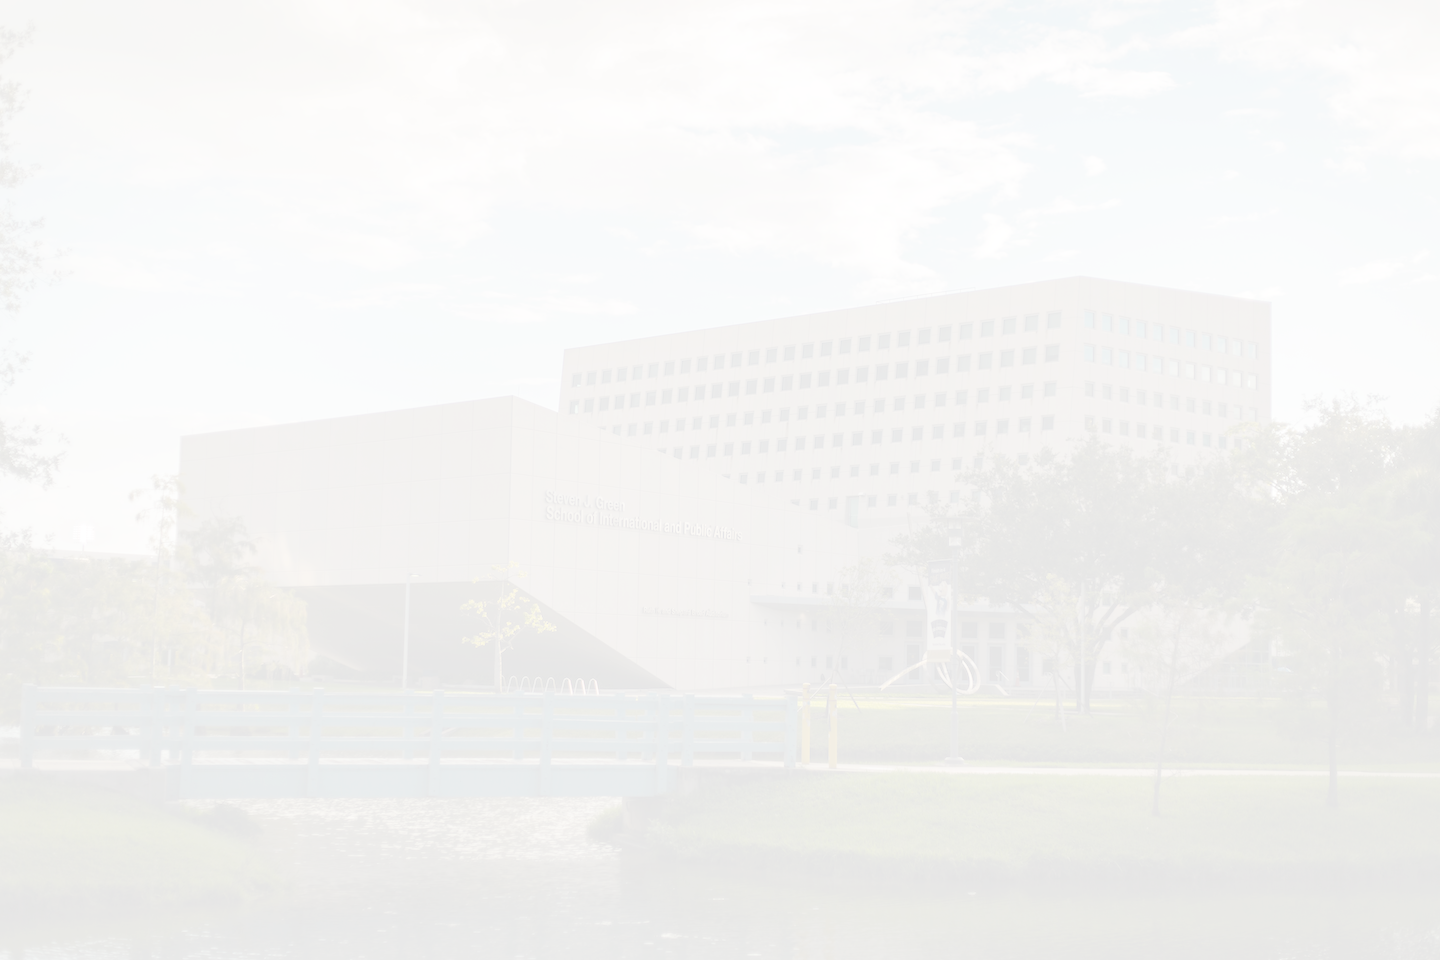
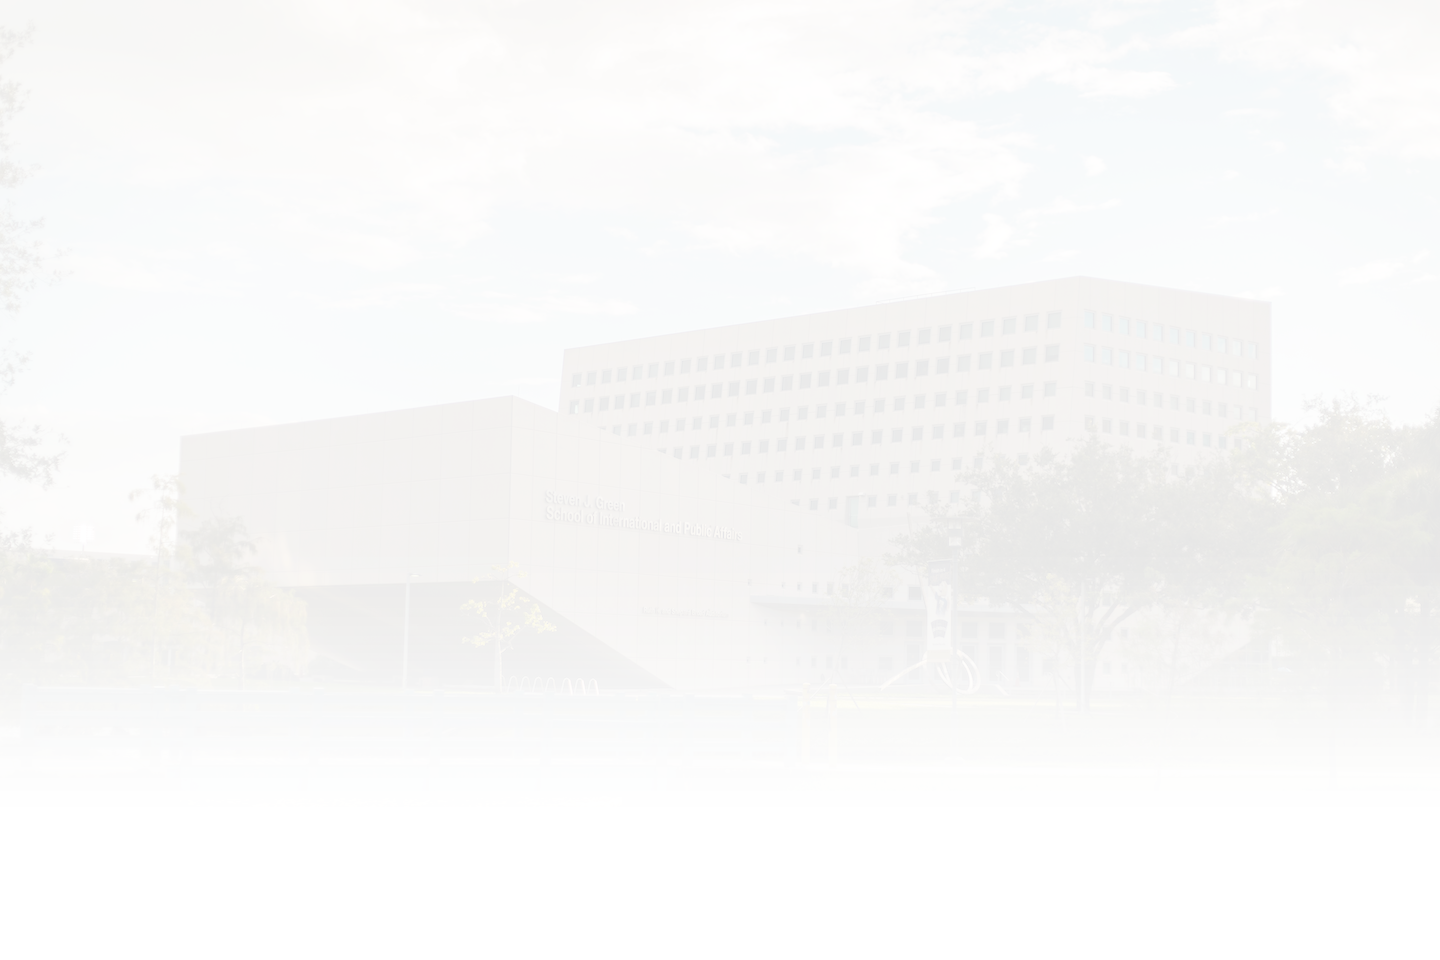
fixed white space on bottom of pages

Changed region(s): [[0.4062, 0.8125, 1.0, 1.0], [0.0, 0.8125, 0.2188, 1.0]]

diff --git a/client/src/components/Dashboards/AdminCalendar.js b/client/src/components/Dashboards/AdminCalendar.js
@@ -1,7 +1,5 @@
 import React, { Component, Fragment } from 'react';
-import Button from '@material-ui/core/Button';
 import { withRouter } from 'react-router-dom';
-import PropTypes from 'prop-types';
 import { connect } from "react-redux";
 import { withStyles } from '@material-ui/core/styles';
 import Box from '@material-ui/core/Box';
@@ -131,7 +129,7 @@ class AdminCalendar extends Component {
         weekday[4] = "thursday";
         weekday[5] = "friday";
 
-        var weekday = weekday[today.getDay()]
+        weekday = weekday[today.getDay()]
 
         if (weekday === day){
             return [yellow[600], "black"];
@@ -223,7 +221,7 @@ class AdminCalendar extends Component {
                                 <Typography className={this.props.classes.body} style={{fontStyle: 'italic', color:this.setColor(volunteer.carAvailable)}}  variant="body1" display="inline" gutterBottom>
                                 {volunteer.carAvailable ? 'Available for carpool' : 'Not Available for carpool'}<br/>
                                 </Typography>
-                                <Typography className={this.props.classes.body} color="textPrimary" variant="body1" display="inline" gutterBottom v>
+                                <Typography className={this.props.classes.body} color="textPrimary" variant="body1" display="inline" gutterBottom>
                                     &nbsp; &nbsp; &nbsp; &#9702; &nbsp;{ volunteer.phoneNumber } <br/>
                                     &nbsp; &nbsp; &nbsp; &#9702; &nbsp;{ volunteer.email } <br/>
                                 </Typography>
@@ -247,7 +245,7 @@ class AdminCalendar extends Component {
     render(){
         const daysOfWeek =  ['Mondays', 'Tuesdays', 'Wednesdays', 'Thursdays', 'Fridays']
         return (
-            <div style={{marginTop: '15px'}}>
+            <div style={{marginTop: '10px'}}>
             <Fragment>
 
                     {daysOfWeek.map( day => {
@@ -282,7 +280,7 @@ class AdminCalendar extends Component {
                                                         <Grid
                                                         container
                                                         direction="row"
-                                                        justify="left"
+                                                        justify="flex-start"
                                                         alignItems="center"
                                                         style={{marginLeft: '15px', verticalAlign: 'middle'}}>
 

diff --git a/client/src/components/Dashboards/AdminDashboard.js b/client/src/components/Dashboards/AdminDashboard.js
@@ -11,12 +11,9 @@ import { blueGrey, blue, grey } from '@material-ui/core/colors';
 import AdminCalendar from './AdminCalendar'
 import { getTeams } from '../../actions/calendarActions'
 import isEmpty from 'is-empty';
+import { shadows } from '@material-ui/system';
 
 const useStyles = {
-    all: {
-        backgroundColor: '#fafafa',
-        height: '100vh'
-    },
     card: {
         marginTop: 10,
         minWidth: '80%',
@@ -206,6 +203,23 @@ class AdminDashboard extends Component {
 
                         </Grid>
                     </Box>
+            </Grid>
+
+            <Grid
+            container
+            direction="column"
+            justify="center"
+            alignItems="center"
+            className={this.props.classes.custom} 
+            >
+
+                <Typography Shadow={3} color="textPrimary" align='center' variant="h6" display="inline" style={{marginTop: '30px', fontSize: 30, fontWeight: 800, /* color: blue[500] */}}  >
+                    {this.props.semesterYear.semester + " " + this.props.semesterYear.year}
+                </Typography>
+
+                <Typography color="textPrimary" align='center' variant="h6" display="inline" style={{marginTop: '5px'}}  >
+                    {this.getTodaysDate()} &nbsp;
+                </Typography>
             </Grid>
 
             { !isEmpty(this.props.teams) && <AdminCalendar/> }

diff --git a/client/src/components/Dashboards/Admin_DashboarMiddleMan.js b/client/src/components/Dashboards/Admin_DashboarMiddleMan.js
@@ -1,6 +1,4 @@
 import React, { Component } from 'react';
-import PropTypes from 'prop-types';
-import { connect } from "react-redux";
 import { withRouter } from 'react-router-dom';
 import { Grid } from '@material-ui/core';
 import { withStyles } from '@material-ui/core/styles';
@@ -8,14 +6,10 @@ import AdminDashboard from './AdminDashboard';
 import isEmpty from 'is-empty';
 
 const useStyles = {
-    all: {
-        backgroundColor: '#fafafa',
-        height: '100vh'
-    },
     cell: {
         marginTop: 20,
         minWidth: 200,
-        width: '85%'
+        width: '87%'
     }
 }
 

diff --git a/client/src/components/NavBar/NavBar.js b/client/src/components/NavBar/NavBar.js
@@ -159,7 +159,7 @@ render(){
   return (
     <ThemeProvider theme={theme}>
     <div className={this.props.classes.root} >
-      <AppBar position='static' title={<img src="../../images/VAS logo_white.png"/>}>
+      <AppBar position='static'>
         <Toolbar className={this.props.classes.toolbar}>
        
 

diff --git a/client/src/pages/Dashboard.js b/client/src/pages/Dashboard.js
@@ -11,7 +11,9 @@ import isEmpty from 'is-empty';
 
 const useStyles = {
     all: {
-        backgroundColor: '#fafafa',
+        //backgroundColor: '#fafafa',
+        //background: 'linear-gradient(to bottom, #33ccff 0%, #ff99cc 100%)',
+
         height: '180vh'
     },
     cell: {

diff --git a/client/src/pages/AdminManagement.js b/client/src/pages/AdminManagement.js
@@ -5,7 +5,7 @@ import AdminTable from '../components/Admins/AdminTable';
 
 const useStyles = {
     all: {
-        backgroundColor: '#fafafa',
+        //backgroundColor: '#fafafa',
         height: '100vh'
     },
     table: {

diff --git a/client/src/pages/SchoolPersonnelManagement.js b/client/src/pages/SchoolPersonnelManagement.js
@@ -5,7 +5,6 @@ import SchoolPersonnelTable from '../components/SchoolPersonnels/SchoolPersonnel
 
 const useStyles = {
     all: {
-        backgroundColor: '#fafafa',
         height: '100vh'
     },
     table: {

diff --git a/client/src/pages/VolunteerManagement.js b/client/src/pages/VolunteerManagement.js
@@ -5,7 +5,6 @@ import VolunteerTable from '../components/Volunteers/VolunteerTable';
 
 const useStyles = {
     all: {
-        backgroundColor: '#fafafa',
         height: '100vh'
     },
     table: {

diff --git a/client/src/components/Admins/AdminTable.js b/client/src/components/Admins/AdminTable.js
@@ -29,7 +29,7 @@ const useStyles = ({
       minWidth: 200,
     },
     all: {
-        backgroundColor: '#fafafa',
+        //backgroundColor: '#fafafa',
         height: 78
     },
     card: {

diff --git a/client/src/pages/SchoolManagement.js b/client/src/pages/SchoolManagement.js
@@ -5,7 +5,6 @@ import SchoolTable from '../components/School/SchoolTable';
 
 const useStyles = {
     all: {
-        backgroundColor: '#fafafa',
         height: '100vh'
     },
     table: {

diff --git a/client/src/pages/TeamManagement.js b/client/src/pages/TeamManagement.js
@@ -5,7 +5,6 @@ import TeamView from '../components/Teams/teamView'
 
 const useStyles = {
     all: {
-        backgroundColor: '#fafafa',
         height: '100vh'
     },
     table: {
